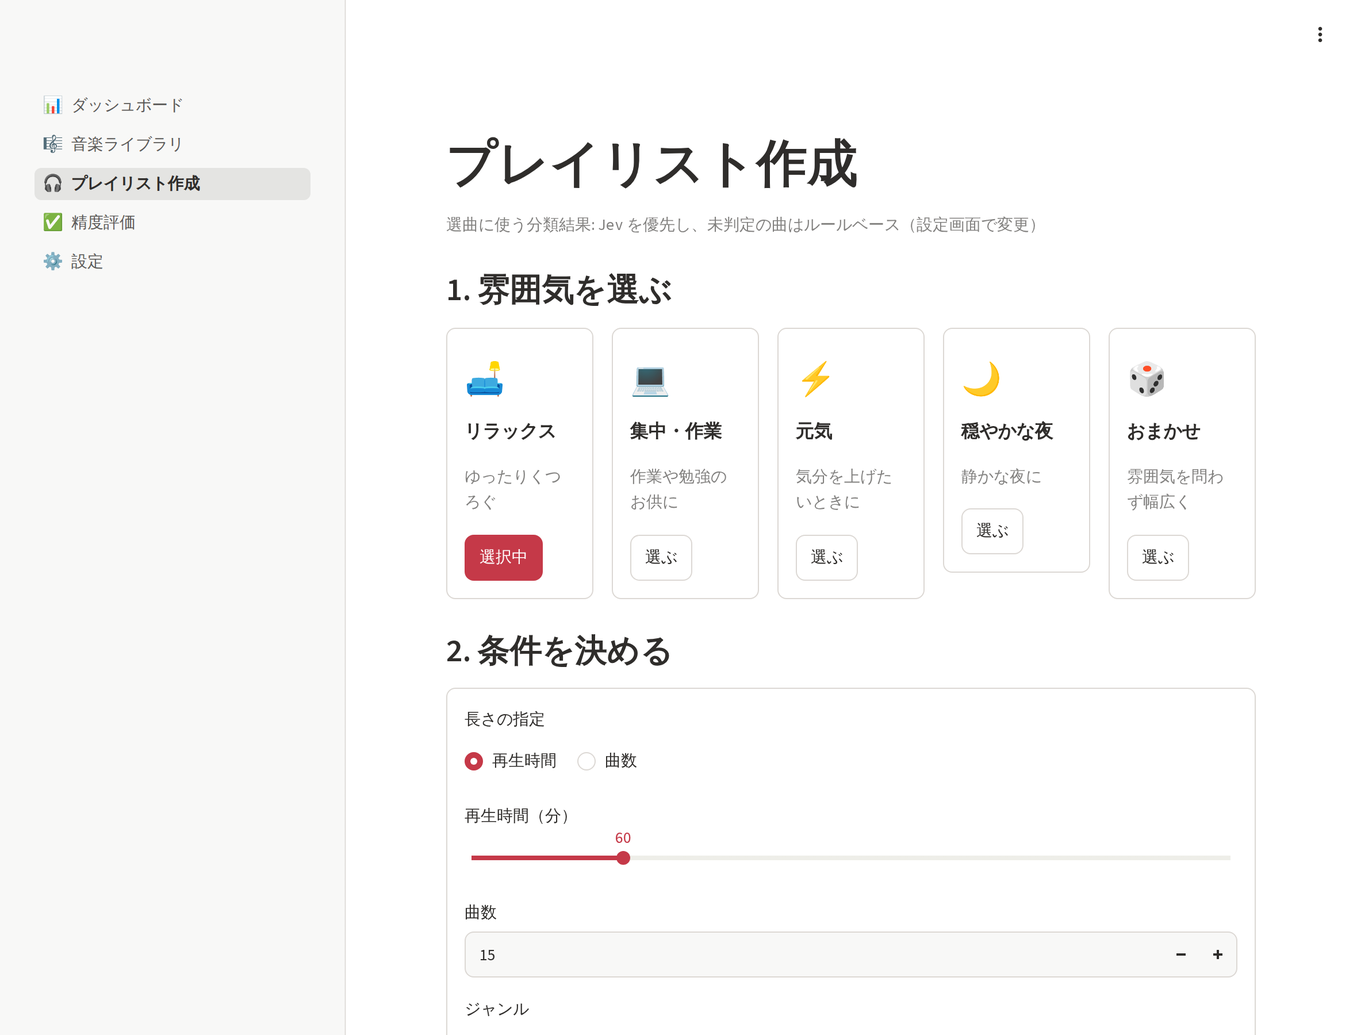
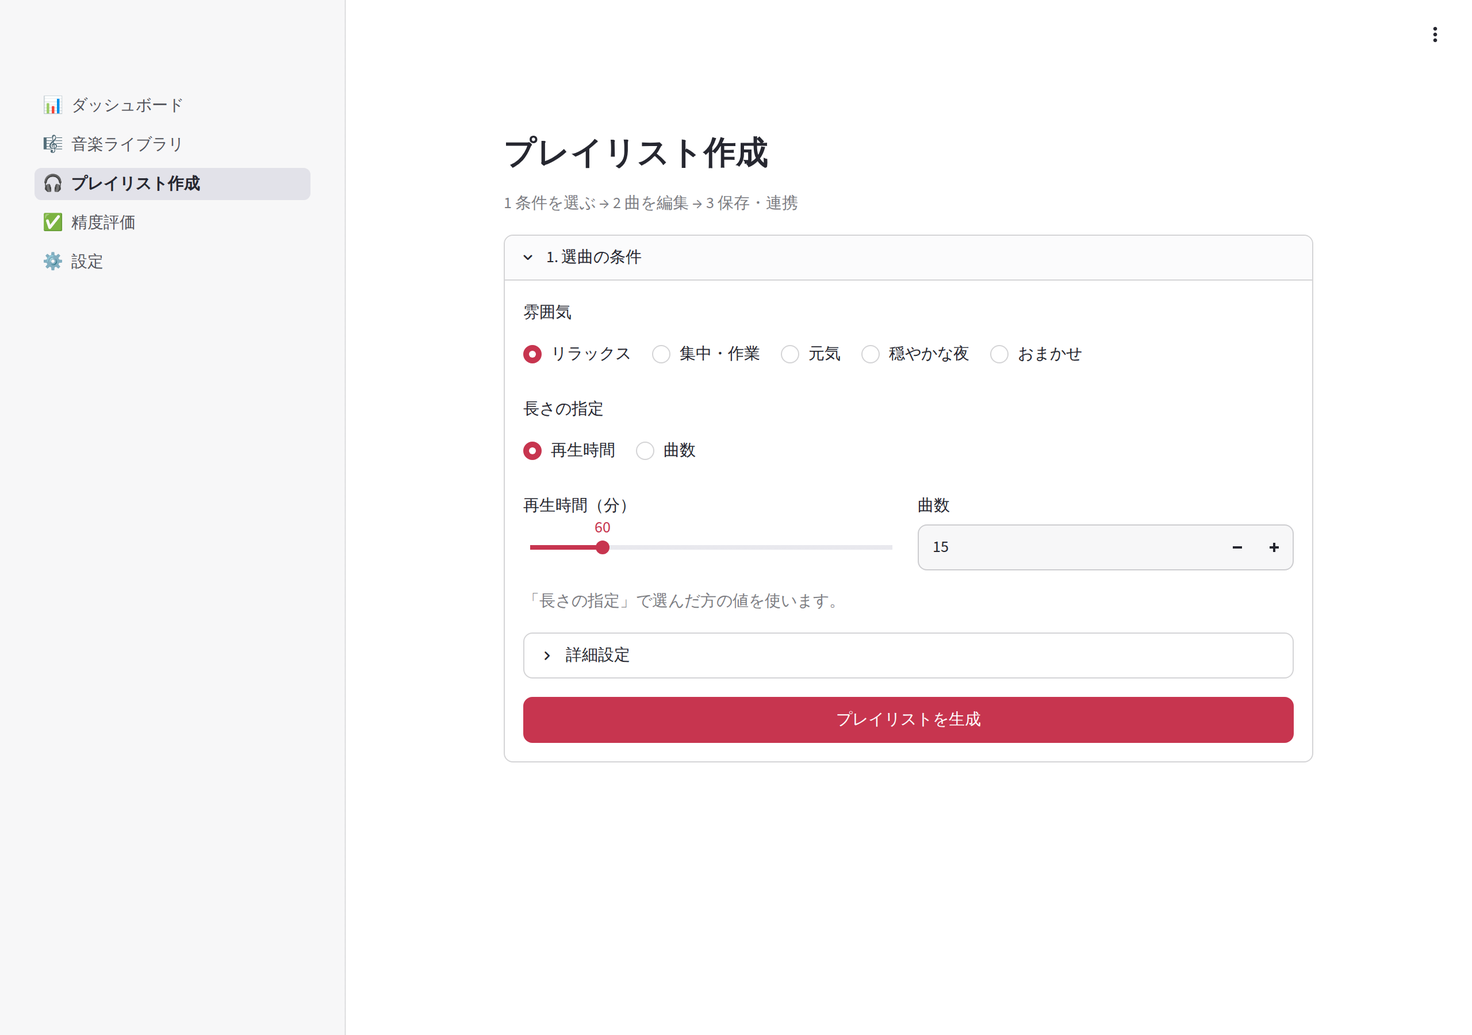
画面キャプチャをタブレット幅と新しい画面構成で撮り直す
画面構成の変更に合わせて撮影手順を更新し、PC・タブレット・スマートフォンの
3 つの幅で撮る。撮影時に本文の横あふれ・タイトルの折り返し・生成ボタンが
初期表示内にあることも検査する。

diff --git a/tools/capture_screenshots.py b/tools/capture_screenshots.py
@@ -47,8 +47,9 @@ from volumio_playlist_studio.storage.tracks import list_tracks
 logger = logging.getLogger(__name__)
 
 DEFAULT_OUTPUT_DIR = PROJECT_ROOT / "docs" / "images"
-# 参考にした画面キャプチャに合わせ、PC は幅 1180px、スマートフォンは幅 390px を 2 倍の解像度で撮る
-DESKTOP_VIEWPORT = ViewportSize(width=1180, height=900)
+# PC・タブレット縦向き・スマートフォンの幅で標準レイアウトを確認する。
+DESKTOP_VIEWPORT = ViewportSize(width=1280, height=900)
+TABLET_VIEWPORT = ViewportSize(width=768, height=1024)
 MOBILE_VIEWPORT = ViewportSize(width=390, height=844)
 DEVICE_SCALE_FACTOR = 2
 STARTUP_TIMEOUT_SEC = 60.0
@@ -177,6 +178,9 @@ def save_full_page(page: Page, path: Path) -> None:
     Streamlit はページ全体ではなく本文の要素がスクロールするため、`full_page` では見えている範囲しか撮れない。
     本文の高さに合わせてビューポートを広げてから撮り、元の大きさに戻す。
     """
+    # タブ切り替えや折りたたみの展開直後は、アニメーション完了後の高さで撮影する。
+    wait_for_app(page)
+    check_layout(page)
     viewport = page.viewport_size
     if viewport is None:
         raise RuntimeError("viewport size is not set")
@@ -191,6 +195,7 @@ def save_full_page(page: Page, path: Path) -> None:
 
 def save_viewport(page: Page, path: Path) -> None:
     """見えている範囲だけを撮る。"""
+    check_layout(page)
     page.screenshot(path=path)
     logger.info("screenshot saved: file=%s", path.name)
 
@@ -203,7 +208,9 @@ def open_page(page: Page, base_url: str, url_path: str) -> None:
 
 def fill_seed(page: Page) -> None:
     """選曲の seed を固定する。初期値は画面を開いた時刻で変わるため、撮り直しても同じ画像になるようにする。"""
+    page.get_by_text("詳細設定", exact=True).click()
     page.get_by_label("seed（同じ値なら同じ結果を再現します）").fill(str(PLAYLIST_SEED))
+    page.get_by_text("詳細設定", exact=True).click()
 
 
 def create_playlist(page: Page) -> None:
@@ -211,61 +218,144 @@ def create_playlist(page: Page) -> None:
     fill_seed(page)
     page.get_by_role("button", name="プレイリストを生成").click()
     wait_for_app(page)
-    page.get_by_label("プレイリスト名").fill(PLAYLIST_NAME)
-    page.get_by_label("プレイリスト名").press("Enter")
+    page.get_by_role("tab", name="3. 保存・連携").click()
+    page.get_by_label("プレイリスト名", exact=True).fill(PLAYLIST_NAME)
+    page.get_by_label("プレイリスト名", exact=True).press("Enter")
     wait_for_app(page)
     page.get_by_role("button", name="プレイリストを保存").click()
     wait_for_app(page)
 
 
+def check_layout(page: Page) -> None:
+    """本文全体の横あふれ・タイトルの折り返し・画面内の例外を検出する。表内のスクロールは許容する。"""
+    if page.locator("[data-testid='stException']").count():
+        raise RuntimeError("app rendered an exception")
+
+    layout = page.evaluate("""() => {
+        const main = document.querySelector('[data-testid="stMain"]');
+        const title = document.querySelector('h1');
+        const style = getComputedStyle(title);
+        return {width: main.clientWidth, scrollWidth: main.scrollWidth,
+                titleHeight: title.getBoundingClientRect().height
+                    - parseFloat(style.paddingTop) - parseFloat(style.paddingBottom),
+                titleLineHeight: parseFloat(style.lineHeight)};
+    }""")
+    if layout["scrollWidth"] > layout["width"]:
+        raise RuntimeError(f"page overflow: {layout}")
+
+    if layout["titleHeight"] > layout["titleLineHeight"] * 1.5:
+        raise RuntimeError(f"title wraps: {layout}")
+
+    logger.info("layout checked: width=%d scroll_width=%d", layout["width"], layout["scrollWidth"])
+
+
+def capture_pages(page: Page, base_url: str, output_dir: Path, suffix: str) -> None:
+    """各画面と、プレイリストの条件・編集・保存の状態を撮る。"""
+    for route, name in (
+        ("", "dashboard"),
+        ("library", "library"),
+        ("evaluation", "evaluation"),
+        ("settings", "settings"),
+    ):
+        open_page(page, base_url, route)
+        save_full_page(page, output_dir / f"{name}{suffix}.png")
+
+    open_page(page, base_url, "playlist")
+    save_full_page(page, output_dir / f"playlist-conditions{suffix}.png")
+    save_viewport(page, output_dir / ("playlist-top.png" if not suffix else f"playlist{suffix}.png"))
+    generate_button = page.get_by_role("button", name="プレイリストを生成").bounding_box()
+    viewport = page.viewport_size
+    if (
+        generate_button is None
+        or viewport is None
+        or generate_button["y"] + generate_button["height"] > viewport["height"]
+    ):
+        raise RuntimeError("generate button is outside the initial viewport")
+
+    create_playlist(page)
+    save_full_page(page, output_dir / f"playlist-save{suffix}.png")
+    page.get_by_role("tab", name="2. 曲を編集").click()
+    save_full_page(page, output_dir / ("playlist.png" if not suffix else f"playlist-edit{suffix}.png"))
+
+    if not suffix:
+        check_navigation_state(page)
+        open_page(page, base_url, "evaluation")
+        page.get_by_role("tab", name="集計・CSV").click()
+        save_full_page(page, output_dir / "evaluation-metrics.png")
+        page.get_by_role("tab", name="プレイリスト", exact=True).click()
+        save_full_page(page, output_dir / "evaluation-playlist.png")
+        open_page(page, base_url, "settings")
+        page.get_by_role("tab", name="解析・AI").click()
+        page.get_by_text("Jev API の設定", exact=True).click()
+        page.get_by_text("高度な音響解析設定", exact=True).click()
+        save_full_page(page, output_dir / "settings-advanced.png")
+
+
+def check_navigation_state(page: Page) -> None:
+    """同一セッションのページ移動で、保存名・条件・編集結果が維持されることを実ブラウザでも確認する。"""
+    page.get_by_role("button", name="除外", exact=True).click()
+    wait_for_app(page)
+    selection = page.get_by_test_id("stSelectbox").filter(has=page.get_by_text("編集する曲", exact=True))
+    before = selection.inner_text()
+    page.get_by_role("tab", name="3. 保存・連携").click()
+    page.get_by_label("プレイリスト名", exact=True).fill("移動後も保持する名前")
+    page.get_by_label("プレイリスト名", exact=True).press("Enter")
+    wait_for_app(page)
+    page.get_by_role("link", name="ダッシュボード").click()
+    wait_for_app(page)
+    page.get_by_role("button", name="プレイリストを作成").click()
+    wait_for_app(page)
+    if selection.inner_text() != before:
+        raise RuntimeError("playlist changed after navigation")
+
+    page.get_by_role("tab", name="3. 保存・連携").click()
+    if page.get_by_label("プレイリスト名", exact=True).input_value() != "移動後も保持する名前":
+        raise RuntimeError("playlist name was lost after navigation")
+
+    page.get_by_text("1. 選曲の条件", exact=True).click()
+    page.get_by_text("詳細設定", exact=True).click()
+    if page.get_by_label("seed（同じ値なら同じ結果を再現します）").input_value() != str(PLAYLIST_SEED):
+        raise RuntimeError("playlist seed was lost after navigation")
+
+
 def capture_desktop(browser: Browser, base_url: str, output_dir: Path) -> None:
     """PC の画面幅で各画面を撮る。"""
     context = browser.new_context(viewport=DESKTOP_VIEWPORT, device_scale_factor=DEVICE_SCALE_FACTOR, locale="ja-JP")
-    page = context.new_page()
     try:
-        # ダッシュボードは既定の画面のため、URL のパスは空になる
-        open_page(page, base_url, "")
-        save_full_page(page, output_dir / "dashboard.png")
-
-        open_page(page, base_url, "library")
-        save_full_page(page, output_dir / "library.png")
-
-        open_page(page, base_url, "playlist")
-        save_viewport(page, output_dir / "playlist-top.png")
-        create_playlist(page)
-        save_full_page(page, output_dir / "playlist.png")
-
-        open_page(page, base_url, "evaluation")
-        save_full_page(page, output_dir / "evaluation.png")
-
-        open_page(page, base_url, "settings")
-        save_full_page(page, output_dir / "settings.png")
+        capture_pages(context.new_page(), base_url, output_dir, "")
     finally:
         context.close()
 
 
-def capture_mobile(browser: Browser, base_url: str, output_dir: Path) -> None:
-    """スマートフォンの画面幅でプレイリスト作成画面を撮る。"""
-    context = browser.new_context(
-        viewport=MOBILE_VIEWPORT,
-        device_scale_factor=DEVICE_SCALE_FACTOR,
-        is_mobile=True,
-        has_touch=True,
-        locale="ja-JP",
-    )
-    page = context.new_page()
-    try:
-        open_page(page, base_url, "playlist")
-        fill_seed(page)
-        save_full_page(page, output_dir / "playlist-mobile.png")
-    finally:
-        context.close()
+def capture_mobile(browser: Browser, base_url: str, output_dir: Path, target: str = "all") -> None:
+    """スマートフォン・タブレットの画面幅で各画面を撮る。"""
+    for viewport, suffix in ((MOBILE_VIEWPORT, "-mobile"), (TABLET_VIEWPORT, "-tablet")):
+        if target != "all" and suffix != f"-{target}":
+            continue
+
+        context = browser.new_context(
+            viewport=viewport,
+            device_scale_factor=DEVICE_SCALE_FACTOR,
+            is_mobile=True,
+            has_touch=True,
+            locale="ja-JP",
+        )
+        try:
+            capture_pages(context.new_page(), base_url, output_dir, suffix)
+        finally:
+            context.close()
 
 
 def main(argv: list[str] | None = None) -> int:
     """デモデータで各画面を撮影する。"""
     parser = argparse.ArgumentParser(description="架空のデモデータで画面キャプチャを撮る")
     parser.add_argument("--output", type=Path, default=DEFAULT_OUTPUT_DIR, help="PNG の保存先")
+    parser.add_argument(
+        "--viewport",
+        choices=["all", "desktop", "mobile", "tablet"],
+        default="all",
+        help="撮影する画面幅（既定は全サイズ）",
+    )
     args = parser.parse_args(argv)
     logging.basicConfig(level=logging.INFO, format="%(levelname)s %(message)s")
 
@@ -277,8 +367,11 @@ def main(argv: list[str] | None = None) -> int:
         with run_app(data_dir) as base_url, sync_playwright() as playwright:
             browser = playwright.chromium.launch()
             try:
-                capture_desktop(browser, base_url, output_dir)
-                capture_mobile(browser, base_url, output_dir)
+                if args.viewport in {"all", "desktop"}:
+                    capture_desktop(browser, base_url, output_dir)
+
+                if args.viewport != "desktop":
+                    capture_mobile(browser, base_url, output_dir, args.viewport)
             finally:
                 browser.close()
 

diff --git a/docs/SCREENSHOTS.md b/docs/SCREENSHOTS.md
@@ -1,59 +1,118 @@
 # 画面キャプチャ
 
-volumio-playlist-studio の各画面です。キャプチャはすべて **サンプルデータ（架空の楽曲 60 曲）** で撮ったもので、実在の楽曲や利用者の音楽ライブラリは含みません。
-操作の流れは [README](../README.md#操作手順) を参照してください。
+すべて **架空の楽曲60曲** を使った画面です。利用者の音楽ライブラリや接続情報は含みません。
+操作手順は [README](../README.md#操作手順)、状態管理は [architecture.md](architecture.md#gui-の表示と状態管理) を参照してください。
 
-キャプチャは `tools/capture_screenshots.py` で撮り直せます（[撮り直し方](#撮り直し方)）。
+## UI/UX 改善の比較
+
+既存画像と画面実装を照合し、次の順で改善しました。明るい背景・赤系アクセント、バックグラウンド処理の進捗、確認付きの外部通信、保存処理は維持しています。
+
+| 優先度 | 改善前の課題 | 対応 |
+|---|---|---|
+| P0 | 雰囲気カード5枚がスマートフォンで縦に並び、生成ボタンが遠い | 折り返す選択欄に変更。主要条件と生成ボタンを最初の画面内に配置 |
+| P0 | 条件・曲編集・保存・照合が1つの長いページ | 生成後は条件を折りたたみ、「曲を編集」「保存・連携」のタブを表示 |
+| P0 | 曲ごとの3つのボタンが狭い画面で縦に積み上がる | スクロール可能な一覧と、選択した曲の「上へ」「下へ」「除外」に集約 |
+| P0 | タイトルが「プレイリスト作／成」と分断される | テーマで見出しサイズを統一。390pxでも1行で表示 |
+| P0 | ページ移動で入力部品の値が消える | 入力値をセッション内に退避。生成前の条件・編集中の名前・曲一覧を保持 |
+| P1 | 技術指標が主要な件数と同じ優先順位 | 登録・解析済み・未解析を優先し、作成とライブラリへのボタンを追加。その他の指標は折りたたみ |
+| P1 | ジャンル分布の長いラベルが省略される | 軸のラベル領域を確保。スマートフォンでもジャンル名を表示 |
+| P1 | 一覧が多列で、特徴量が常時表示される | 基本列を優先。解析状況・判定ジャンルで絞り込み、追加列と音響特徴量は必要時に表示 |
+| P2 | 評価入力と集計、一般設定と解析設定が混在 | 評価は「評価入力／集計・CSV／プレイリスト」、設定は「一般／解析・AI／ログ」に分離 |
+| P2 | 属性スコア・確信度に `None` が表示される | 「判定保留」「対象外」と明示し、確信度の説明を添える |
+
+旧スマートフォン画像は幅390px・全高2614px相当でした。現在は主要条件と生成ボタンが390×844pxの最初の表示範囲に収まります。詳細設定は閉じた状態で比較しています。技術的な調整項目は削除せず、折りたたみ内からすべて操作できます。
+
+## プレイリスト作成
+
+「1. 選曲の条件」で雰囲気と長さを選びます。ジャンル・意外性・ランダム性・曲順の調整・seed は「詳細設定」にあります。
+条件を変更しただけでは生成済みの曲を置き換えません。「プレイリストを生成」で反映します。
+
+![プレイリストの条件](images/playlist-top.png)
+
+生成後は「2. 曲を編集」で曲一覧を確認します。「編集する曲」は検索でき、選択した曲名とアーティストは一覧の下にも表示します。移動後も同じ曲を選んだまま続けて操作できます。
+適合度・手動追加の情報は「選曲の詳細」で確認できます。
+
+![プレイリスト編集](images/playlist.png)
+
+「3. 保存・連携」で名前を付けて保存し、その下でVolumioとの照合・登録を行います。
+実機との読み取り専用の照合と、モックでの登録という既存の範囲は変えていません。
+キャプチャではモックを使い、確認チェックは未選択です。
+
+![プレイリスト保存](images/playlist-save.png)
 
 ## ダッシュボード
 
-登録楽曲数、解析済み・未解析・解析失敗などの件数と、ジャンル分布。
+主要件数と次の操作を上部に配置しました。詳細な解析指標と最終スキャン日時は「解析・判定の詳細」にあります。
 
 ![ダッシュボード](images/dashboard.png)
 
 ## 音楽ライブラリ
 
-スキャン・解析・Jev 判定の実行と、楽曲の一覧・検索。選んだ曲の音響特徴量と、ルールベース・Jev それぞれの判定結果（ジャンル、ムード、属性スコア）を表示します。
-サンプルデータではスキャン・解析は行えないため、ボタンは表示されていません。
+検索欄の下の「絞り込み・表示項目」で解析状況・判定ジャンルを選べます。アルバム・タグ・ムードの追加列もここで表示できます。
+基本情報と音響特徴量・判定詳細を分離しました。スキャン・解析・Jev実行前の確認欄は「スキャン・解析」に残しています。
 
 ![音楽ライブラリ](images/library.png)
 
-## プレイリスト作成
-
-雰囲気をカードで選び、再生時間（または曲数）・ジャンル・意外性・ランダム性などを指定して生成します。
-生成後は曲の並び替え・除外・追加、名前を付けての保存ができ、保存したプレイリストを Volumio に登録する前のプレビュー（曲と Volumio 上のファイルの照合）を確認できます。
-下のキャプチャは seed を固定して生成・保存した後の状態で、Volumio はモッククライアント（Volumio のライブラリを模擬）を使っています。
-
-![プレイリスト作成](images/playlist.png)
-
 ## 精度評価
 
-評価対象の曲（調整用・検証用に半分ずつ）について、判定結果の正誤、正しいジャンル・ムード、属性の 5 段階評価を入力します。
-入力した評価から分類エンジンごとの一致率・保留率と誤判定の傾向を表示し、CSV で保存できます。保存したプレイリストの満足度と、雰囲気に合わなかった曲も記録できます。
-キャプチャの評価データは、撮影用に機械的に入力したものです（指標の値に意味はありません）。
+入力と集計を別タブに分け、評価済み・未評価の件数と選択曲の状態を表示します。
+撮影用の評価データは機械的に入力したもので、精度の指標としての意味はありません。
 
-![精度評価](images/evaluation.png)
+![評価入力](images/evaluation.png)
+
+[集計・CSV](images/evaluation-metrics.png) ／ [プレイリストの評価](images/evaluation-playlist.png)
 
 ## 設定
 
-音楽フォルダ、Volumio の接続先、Jev の判定基準、解析パラメータ、選曲に使う分類結果、ログを確認・変更します。
+「一般」は音楽フォルダ・Volumio接続先・分類結果の選択、「解析・AI」はJevと高度な音響解析設定、「ログ」はログ確認です。各フォームの保存方式は維持しています。
 
-![設定](images/settings.png)
+![一般設定](images/settings.png)
 
-## スマートフォン幅
+[解析・AIの設定（展開状態）](images/settings-advanced.png)
 
-カードや入力欄が縦に並びます（プレイリスト作成画面）。
+## スマートフォン・タブレット
 
-<img src="images/playlist-mobile.png" alt="スマートフォン幅のプレイリスト作成画面" width="320">
+初期ビューポートは390×844、768×1024、1280×900px、画像は2倍の解像度で取得しています。
+全体画像の撮影時だけ高さを広げます。表内の縦・横スクロールは標準機能として残し、本文全体の横スクロールは発生しないことを確認しています。
+
+<img src="images/playlist-mobile.png" alt="390px幅で生成ボタンまで表示した画面" width="320">
+
+| 画面・状態 | 390px | 768px | 1280px |
+|---|---|---|---|
+| ダッシュボード | [画像](images/dashboard-mobile.png) | [画像](images/dashboard-tablet.png) | [画像](images/dashboard.png) |
+| ライブラリ | [画像](images/library-mobile.png) | [画像](images/library-tablet.png) | [画像](images/library.png) |
+| 選曲条件・初期表示範囲 | [画像](images/playlist-mobile.png) | [画像](images/playlist-tablet.png) | [画像](images/playlist-top.png) |
+| 選曲条件・全体 | [画像](images/playlist-conditions-mobile.png) | [画像](images/playlist-conditions-tablet.png) | [画像](images/playlist-conditions.png) |
+| 曲の編集 | [画像](images/playlist-edit-mobile.png) | [画像](images/playlist-edit-tablet.png) | [画像](images/playlist.png) |
+| 保存・連携 | [画像](images/playlist-save-mobile.png) | [画像](images/playlist-save-tablet.png) | [画像](images/playlist-save.png) |
+| 評価入力 | [画像](images/evaluation-mobile.png) | [画像](images/evaluation-tablet.png) | [画像](images/evaluation.png) |
+| 一般設定 | [画像](images/settings-mobile.png) | [画像](images/settings-tablet.png) | [画像](images/settings.png) |
+
+## 検証の範囲
+
+- AppTestで画面遷移、条件入力と保持、生成、連続並べ替え、除外・追加、空の曲一覧、保存、絞り込み、評価、設定保存、PIN認証前の非表示を検証しています
+- 操作部品を変更した既存テストは、旧カード・記号ボタンの操作を、新しい選択欄・ラベル付きボタンの操作に置き換えています。曲順・件数・DB保存・登録結果の検証は維持しています
+- Playwrightでページの横あふれ・タイトルの折り返し・初期画面内の生成ボタンを検査します。PCでは実際の画面移動後にも編集中の名前・選択曲・seedが残ることを検証します
+- Chromiumでの画面幅・タッチ入力のエミュレーションです。iPhone/iPad実機のSafari、Windows実機での操作感は未確認です
+- Jev実API、Volumio実機、課金を伴う操作は実行していません。PINの仕様やSQLiteスキーマ、解析・分類・選曲ロジック、依存パッケージは変更していません
+
+今後の確認候補は、Safari実機でのキーボード表示・表のタッチスクロール、長い曲名と多数の楽曲での操作性です。ドラッグによる並べ替えや画面幅ごとの独自カード切り替えは、独自JavaScriptや内部DOM依存を避けるため導入していません。
 
 ## 撮り直し方
 
-画面を変更したら、次のコマンドで撮り直します。一時フォルダにサンプルデータの DB を作ってアプリを起動し、Playwright で各画面を `docs/images/` に保存します。
-`data/` の DB や `.env` の接続先・API キーは使わず、Volumio や Jev とは通信しません。
+一時フォルダのサンプルDBで起動します。利用者のDBや `.env` の接続先・APIキーは使いません。
 
 ```bash
-uv run playwright install chromium   # 初回のみ（ブラウザのダウンロード）
+uv run playwright install chromium   # 初回のみ
 uv run python tools/capture_screenshots.py
 ```
 
-日本語を表示するため、WSL / Linux では日本語フォントが必要です（例: `sudo apt install fonts-noto-cjk`）。
+サイズを分けて撮影する場合は以下を実行します。サイズ別に起動すると、それぞれ新しいサンプルDBを使います。
+
+```bash
+uv run python tools/capture_screenshots.py --viewport desktop
+uv run python tools/capture_screenshots.py --viewport mobile
+uv run python tools/capture_screenshots.py --viewport tablet
+```
+
+`--output` で保存先を変更できます。日本語表示にはOSの日本語フォントが必要です（例: WSL/Linuxでは `fonts-noto-cjk`）。アプリが外部フォントを取得することはありません。
